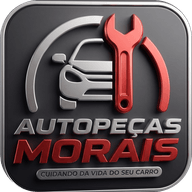
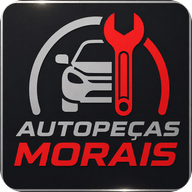
Troca ícone 3D por versão 2D, mais leve e com visual mais limpo
Novo ícone-fonte (img2d_brilhosa.png) substitui a arte 3D fotorrealista
anterior — mesmo recorte rente ao bezel + máscara de cantos
arredondados, agora com raio menor (~12%, o bezel dessa arte é menos
arredondado). 512px caiu de ~120KB pra ~79KB.

diff --git a/CLAUDE.md b/CLAUDE.md
@@ -53,34 +53,37 @@ Usuário único inicialmente (dono da oficina), rodando em Windows e Android.
   ficam FIXAS nos dois temas de propósito — não são "estruturais".
   Header do app (`.app-header`) também fica sempre escuro nos dois temas
   (chrome de marca, não muda com o toggle).
-- Identidade visual: fonte única `public/icones/Iconeapp.png` (arte
-  "badge" 1807×1807, já com bezel metálico e cantos arredondados
-  próprios, mas com uma margem de fundo escuro ao redor) alimenta os TRÊS
-  usos — ícone do PWA, logo da tela de login (`.auth-logo`,
-  LoginPage.tsx) e logo do cabeçalho (`.app-logo`, App.tsx). Não tem mais
-  arquivo-fonte separado por uso (era o caso antes, com IconPage.png/
-  IconePWA.png — ficaram no repo sem uso, histórico). Gerados uma vez com
+- Identidade visual: fonte única `public/icones/img2d_brilhosa.png` (arte
+  "badge" 2D 1254×1254, estilo achatado com brilho/glint nos cantos, já
+  com bezel metálico e cantos arredondados próprios, mas com uma margem
+  de fundo escuro ao redor) alimenta os TRÊS usos — ícone do PWA, logo da
+  tela de login (`.auth-logo`, LoginPage.tsx) e logo do cabeçalho
+  (`.app-logo`, App.tsx). Não tem arquivo-fonte separado por uso. Já teve
+  DUAS artes-fonte anteriores (histórico, arquivos ainda no repo sem uso:
+  `IconPage.png`/`IconePWA.png` — texto+dois arquivos por uso; depois
+  `Iconeapp.png` — versão 3D fotorrealista, trocada por essa por pedido
+  do usuário, "não ficou muito legal o ícone 3D"). Gerados uma vez com
   `sharp` (script descartável, não faz parte do projeto): 1) detecta a
-  borda do bezel metálico por luminância (scan de linha, threshold >140)
+  borda do bezel metálico por luminância (scan de linha, threshold >130)
   pra recortar rente à margem externa, sem cortar a arte; 2) redimensiona
-  pra 1024×1024; 3) aplica máscara SVG de cantos arredondados ~20% do
-  tamanho (`dest-in`) — como a arte já tem seus próprios cantos
-  arredondados internos, o resultado é um recorte limpo com transparência
-  real nos 4 cantos (não sobra pedacinho do fundo escuro original); 4)
-  exporta `pwa-icon-512.png`, `pwa-icon-192.png` (manifest,
-  vite.config.ts, purpose 'any' e 'maskable' com o MESMO arquivo —
-  simplificação: não tem margem de segurança própria pra maskable, se
-  algum launcher Android cortar em círculo pode tocar no conteúdo perto
-  da borda) e `favicon-64.png` (index.html), com `png({ palette: true })`
-  (quantização de cores, tipo pngquant) pra manter leve mesmo sendo uma
-  arte 3D fotorrealista bem mais pesada que a anterior (512px ficou com
-  ~120KB). `vite.config.ts` também ganhou `workbox.globIgnores:
-  ['icones/**']` — sem isso, o precache do service worker varreria a
-  arte-fonte pesada (`Iconeapp.png`, ~4.8MB, nunca referenciada direto no
-  código) junto com o app, inflando o cache offline à toa; vale pra
-  qualquer arte-fonte que for parar em `public/icones/` no futuro. Se a
-  arte mudar de novo, regenerar os 3 PNGs a partir do novo Iconeapp.png
-  com a mesma técnica (não editar os PNGs gerados na mão).
+  pra 1024×1024; 3) aplica máscara SVG de cantos arredondados ~12% do
+  tamanho (`dest-in` — raio menor que a arte 3D anterior, ~20%, porque o
+  bezel desse 2D já é menos arredondado) — como a arte já tem seus
+  próprios cantos arredondados internos, o resultado é um recorte limpo
+  com transparência real nos 4 cantos (não sobra pedacinho do fundo
+  escuro original); 4) exporta `pwa-icon-512.png`, `pwa-icon-192.png`
+  (manifest, vite.config.ts, purpose 'any' e 'maskable' com o MESMO
+  arquivo — simplificação: não tem margem de segurança própria pra
+  maskable, se algum launcher Android cortar em círculo pode tocar no
+  conteúdo perto da borda) e `favicon-64.png` (index.html), com
+  `png({ palette: true })` (quantização de cores, tipo pngquant) — arte
+  2D ficou bem mais leve que a 3D anterior (512px caiu de ~120KB pra
+  ~79KB). `vite.config.ts` tem `workbox.globIgnores: ['icones/**']` —
+  sem isso, o precache do service worker varreria as artes-fonte
+  (inclusive as antigas, ainda no repo) junto com o app, inflando o cache
+  offline à toa. Se a arte mudar de novo, regenerar os 3 PNGs a partir da
+  nova arte-fonte com a mesma técnica (não editar os PNGs gerados na
+  mão).
 
 ## Regras de código (IMPORTANTES)
 
